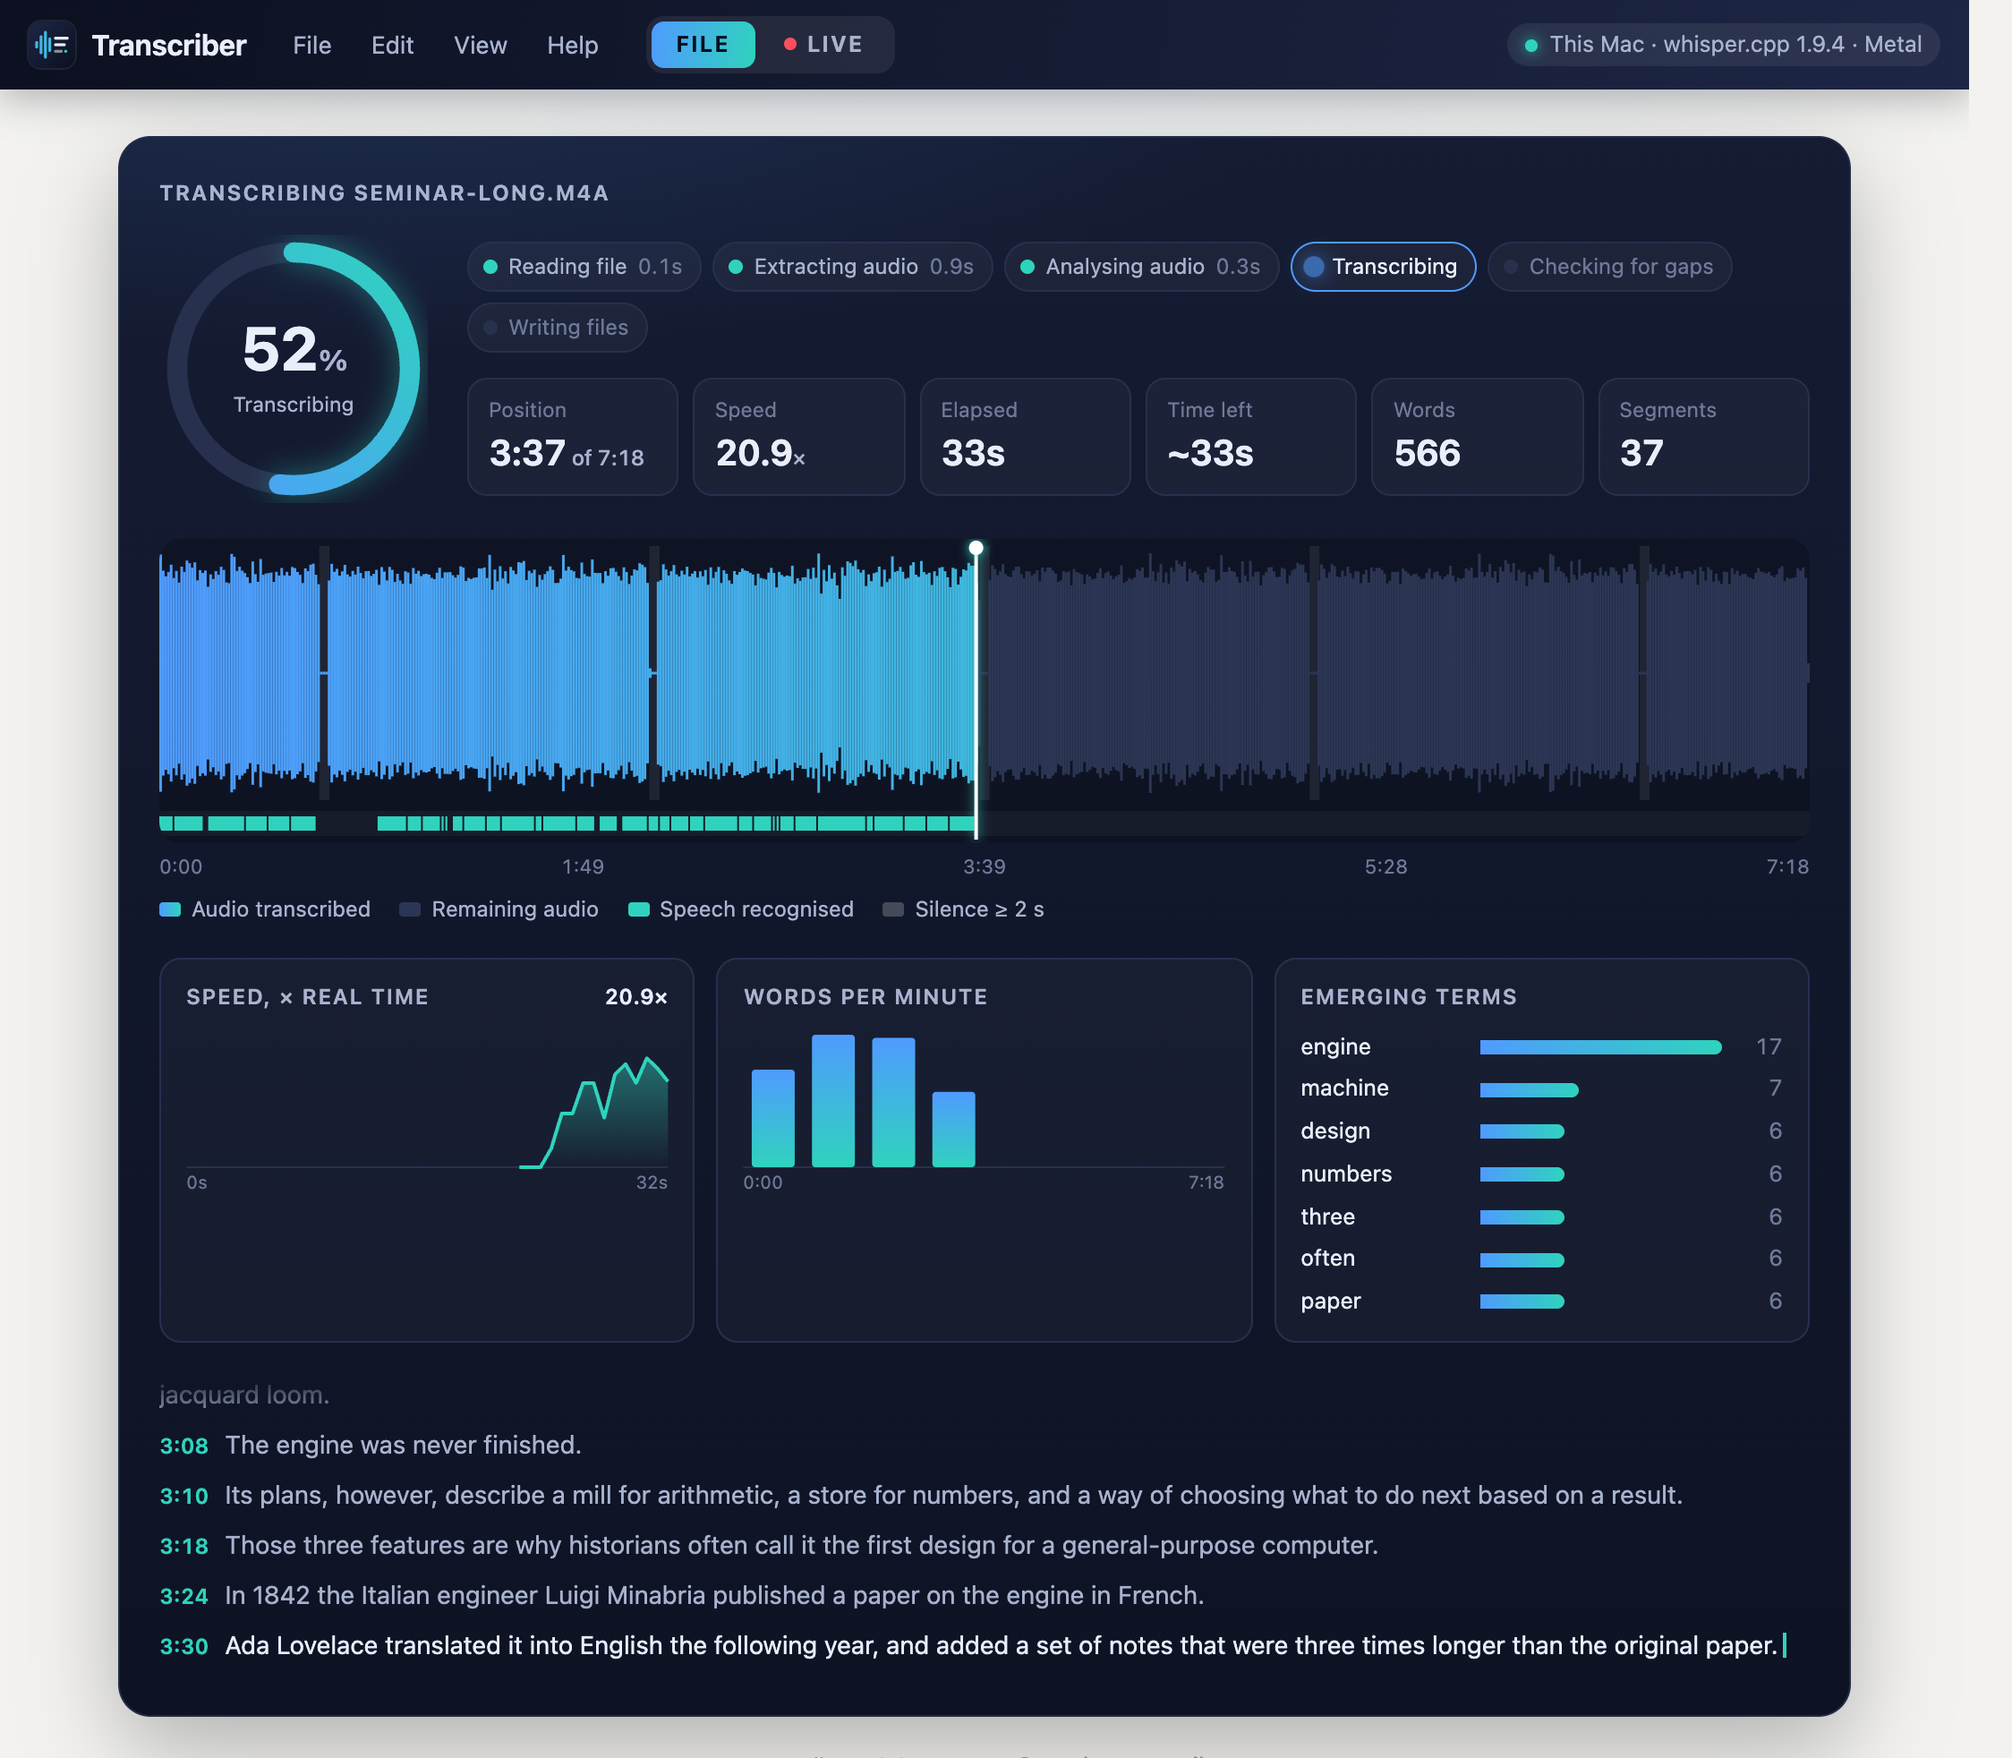
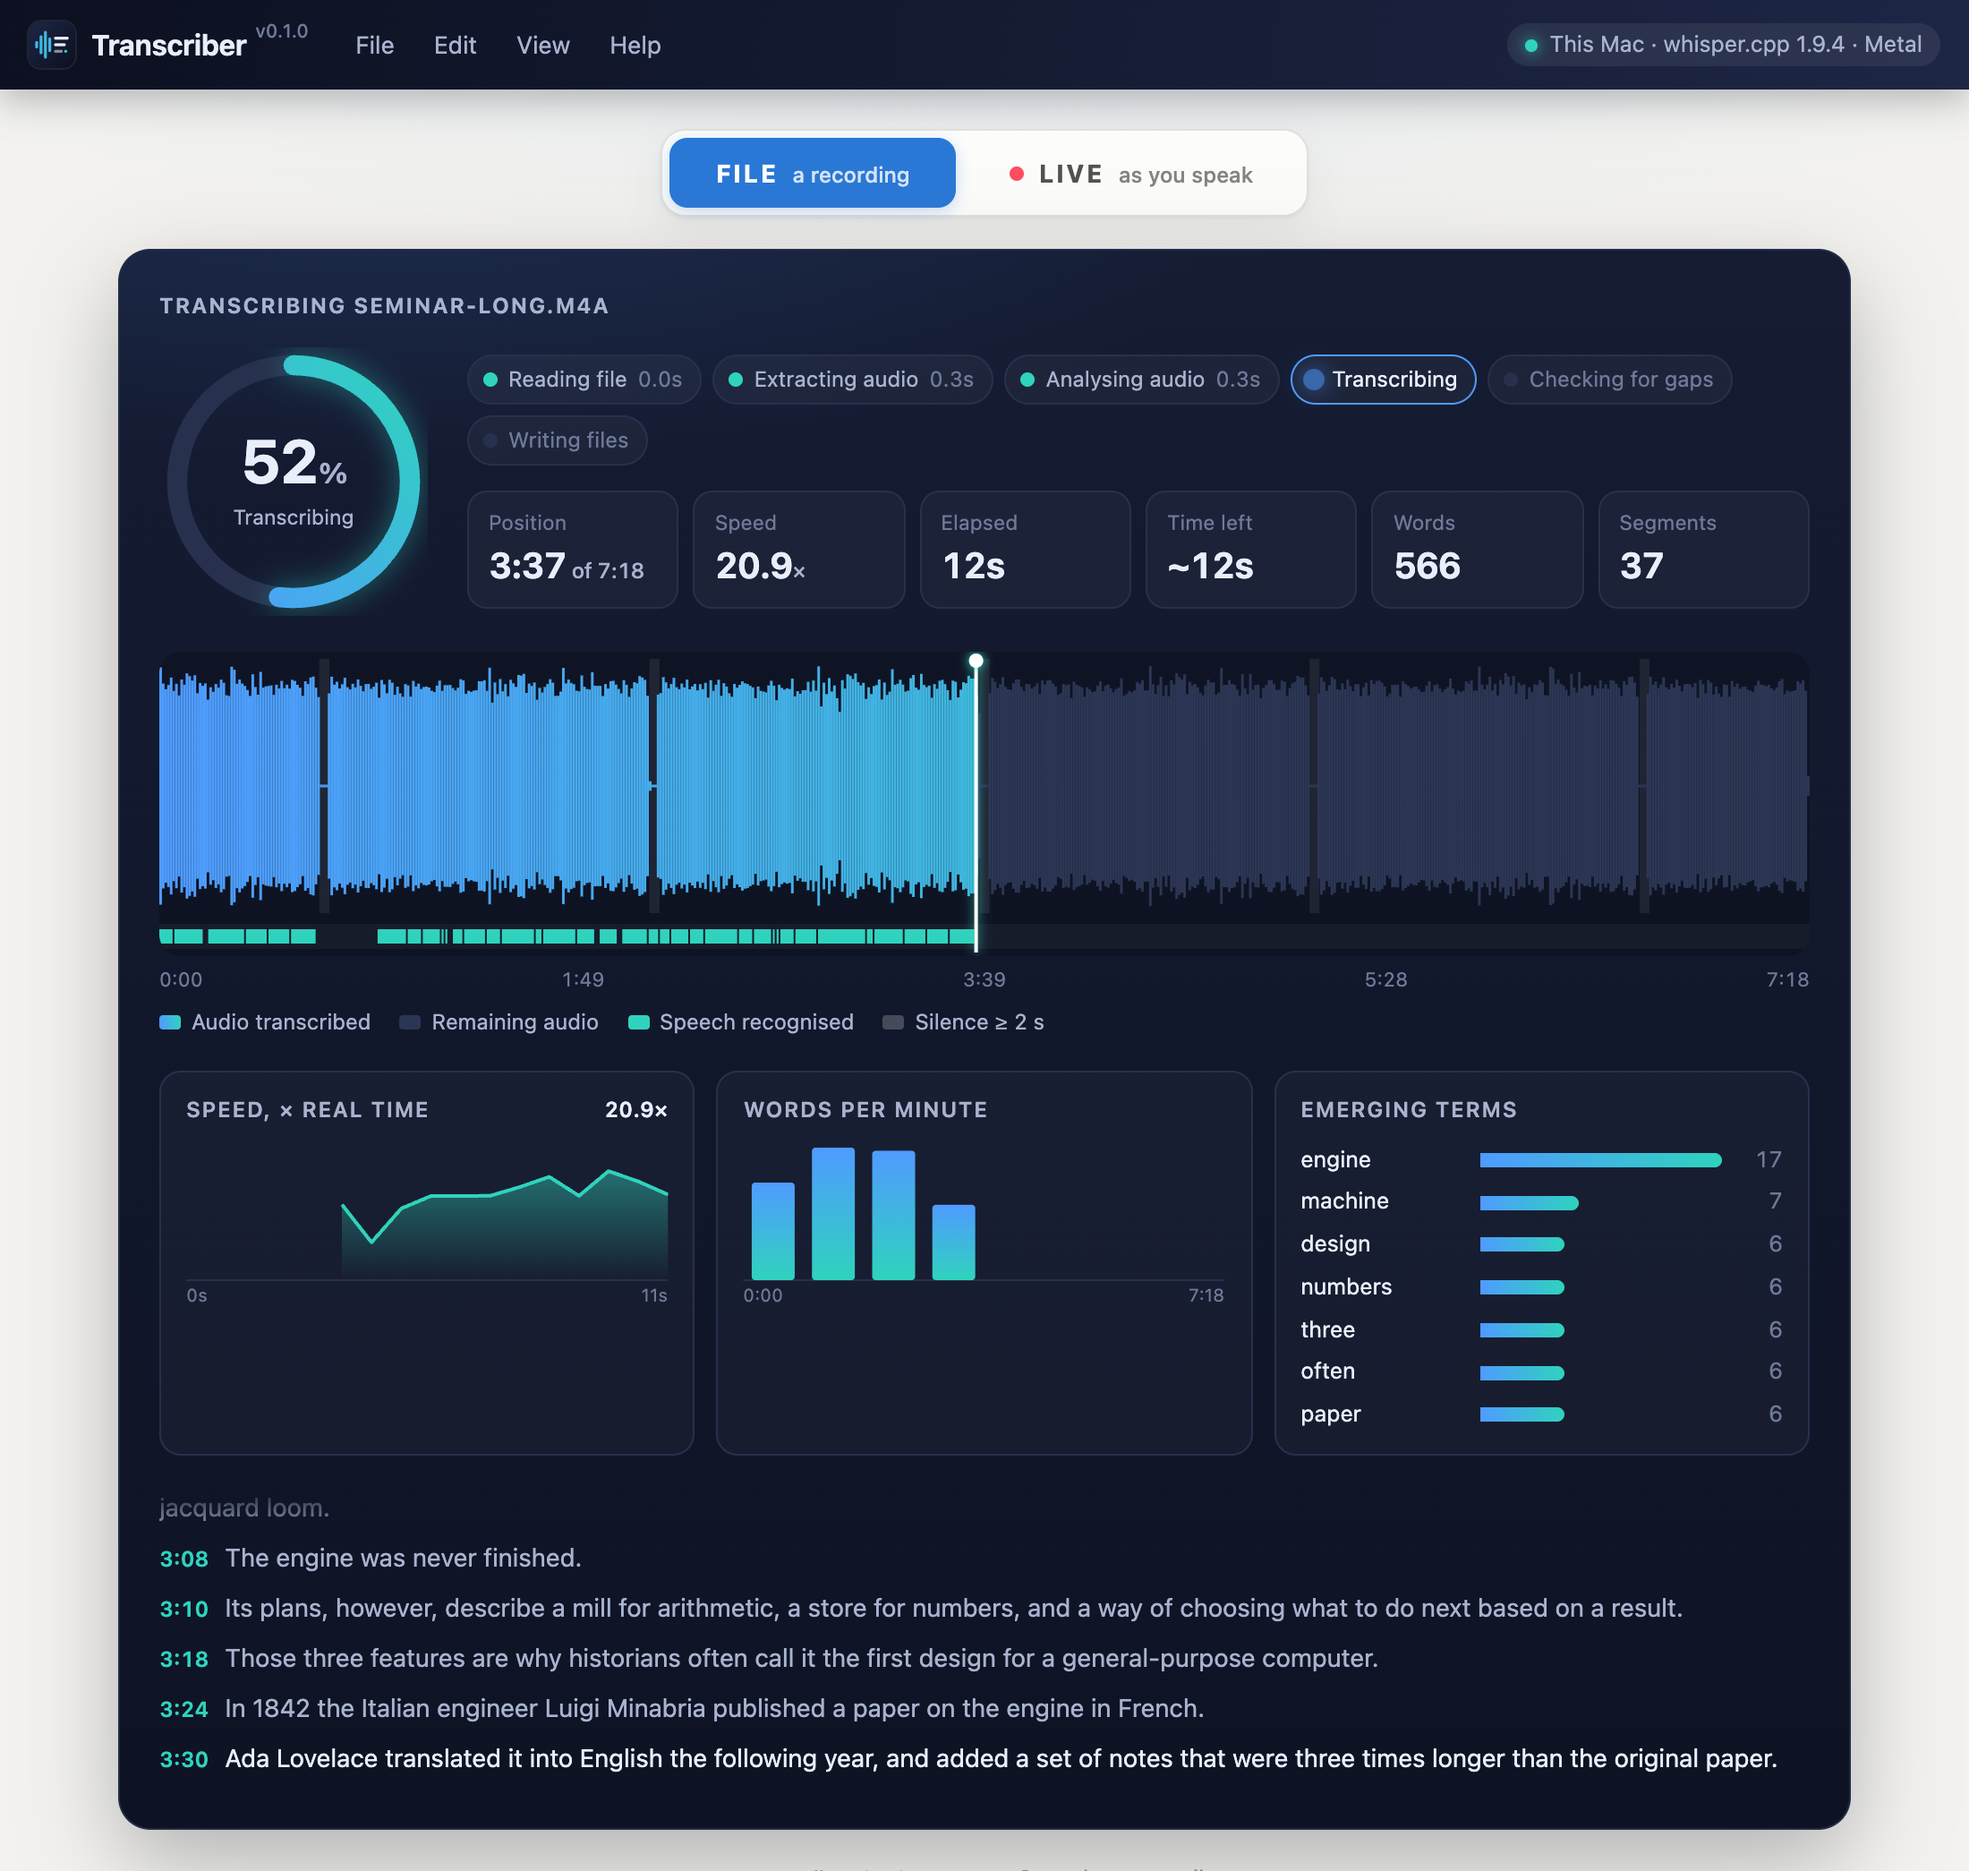
Version 0.1.0; new README screenshots; colour speaker labels in the live panel
Versioning restarts at 0.1.0 and moves in steps of 0.0.1 while the tool
is in early development. Lines under 1.5 s no longer take part in voice
grouping, which stopped a spurious extra speaker.

Changed region(s): [[0.0, 0.0, 1.0, 0.9939]]

diff --git a/app.js b/app.js
@@ -1133,7 +1133,8 @@ async function identifySpeakers() {
         else if (m.total) status(`Identifying speakers: downloading the voice model, ${Math.round((m.loaded || 0) / 1e6)} of ${Math.round(m.total / 1e6)} MB…`);
       });
       doc.segs.forEach((x, i) => { if (fresh[i]) x.vec = fresh[i]; });
-      const labels = stableLabels(clusterSpeakers(doc.segs.map((x) => x.vec || null), setting === "auto" ? 0 : +setting),
+      // lines under 1.5 s give unreliable voice samples: they take a neighbour's speaker instead
+      const labels = stableLabels(clusterSpeakers(doc.segs.map((x) => (x.e - x.s >= 1.5 && x.vec) || null), setting === "auto" ? 0 : +setting),
                                   doc.segs.map((x) => x.spk));
       doc.segs.forEach((x, i) => { if (!x.spkManual) x.spk = labels[i]; });
     }

diff --git a/index.html b/index.html
@@ -345,6 +345,7 @@ td.n { text-align: right; font-variant-numeric: tabular-nums; }
 .dl span[contenteditable]:focus { background: var(--surface-2); box-shadow: 0 0 0 1px var(--accent); }
 .dl.edited .ts::after { content: " ✎"; color: var(--text-3); }
 .lseg .spk { margin-right: 8px; align-self: baseline; }
+.studio .spk { background: var(--c, #85837d); border-color: transparent; color: #fff; padding: 1px 8px; font-size: 11.5px; }
 
 /* ---------------- dialogs */
 dialog { border: 1px solid var(--border); border-radius: 16px; padding: 0; background: var(--surface); color: var(--text);

diff --git a/README.md b/README.md
@@ -15,7 +15,7 @@ While it runs, the progress panel shows each stage with its timing, a waveform t
 
 After the main pass, Transcriber compares the recognised text with the audio levels it has measured. Any stretch of 4 seconds or more with clear sound but no text, which Whisper sometimes skips after a pause, is transcribed again on its own and merged in, and the Markdown notes where this happened.
 
-<p align="center"><img src="branding/screenshot-summary.png" alt="Summary: totals, timeline lanes for waveform, silence, confidence and speakers, and lists of words to check" width="88%"></p>
+<p align="center"><img src="branding/screenshot-summary.png" alt="Summary: totals, where the time went, the transcript panel with named speakers and the audio player, and timeline lanes for waveform, silence, confidence, re-transcribed passages and speakers" width="88%"></p>
 
 The summary gives totals (words, pace, audible share, silences), where the processing time went, and a timeline with lanes for the waveform, silences, per-segment confidence, speakers, re-transcribed passages and speaking rate. **Words to check** lists the words the model was least sure of, with their times. **Possible names** lists capitalised words mid-sentence. Clicking either adds the word to *Find and replace*.
 
@@ -31,7 +31,7 @@ Press **Start recording** (⌘R) and allow the microphone. Text appears a few se
 - Press **1–9** (outside a text field), click a tag, or type one and press Return to mark the current moment. When not recording, click a tag button to rename it (for example to a speaker's name); right-click it to switch between heading and marker, remove it, or add another. Tags become headings in the Markdown; a tag starting with `*` becomes an inline marker instead.
 - **Stop and save** (⌘S) writes the .md, .srt and .txt and, if chosen, the audio as .wav. In the Mac app, committed lines and tags are also kept in the browser while recording, so a closed tab can be recovered as text; the web version does not keep them.
 
-<p align="center"><img src="branding/screenshot-live.png" alt="Live transcription with tags, a corrected line and provisional text" width="88%"></p>
+<p align="center"><img src="branding/screenshot-live.png" alt="Live transcription with speaker labels, tags, a corrected line and provisional text" width="88%"></p>
 
 ## Speakers
 
